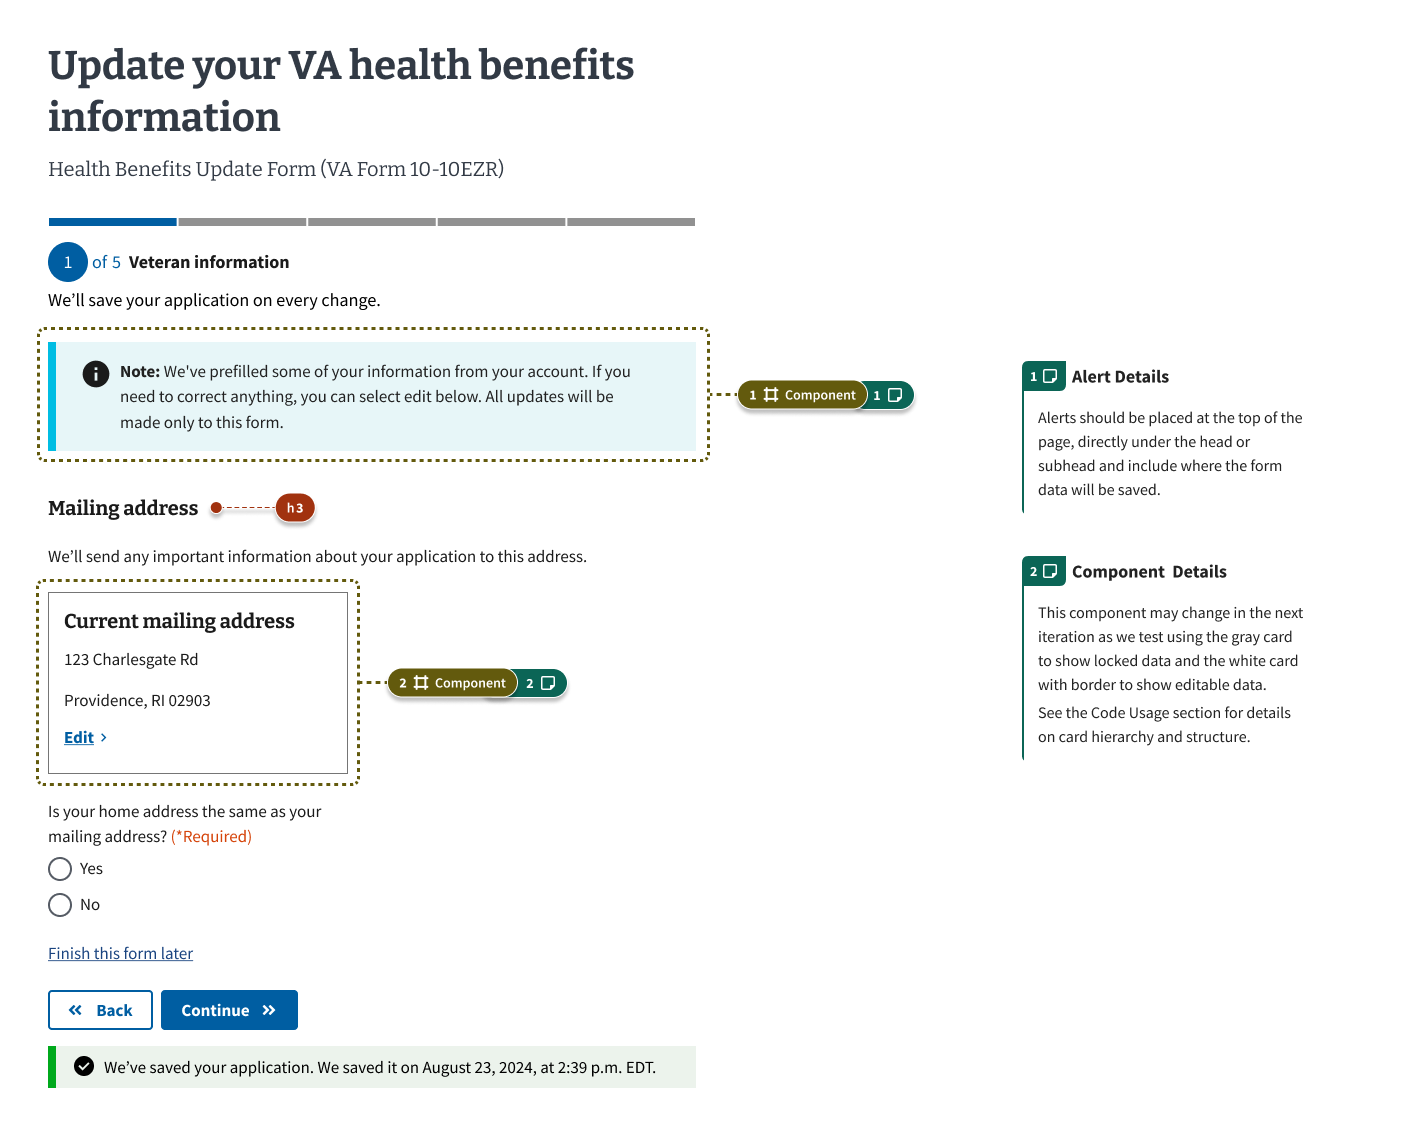
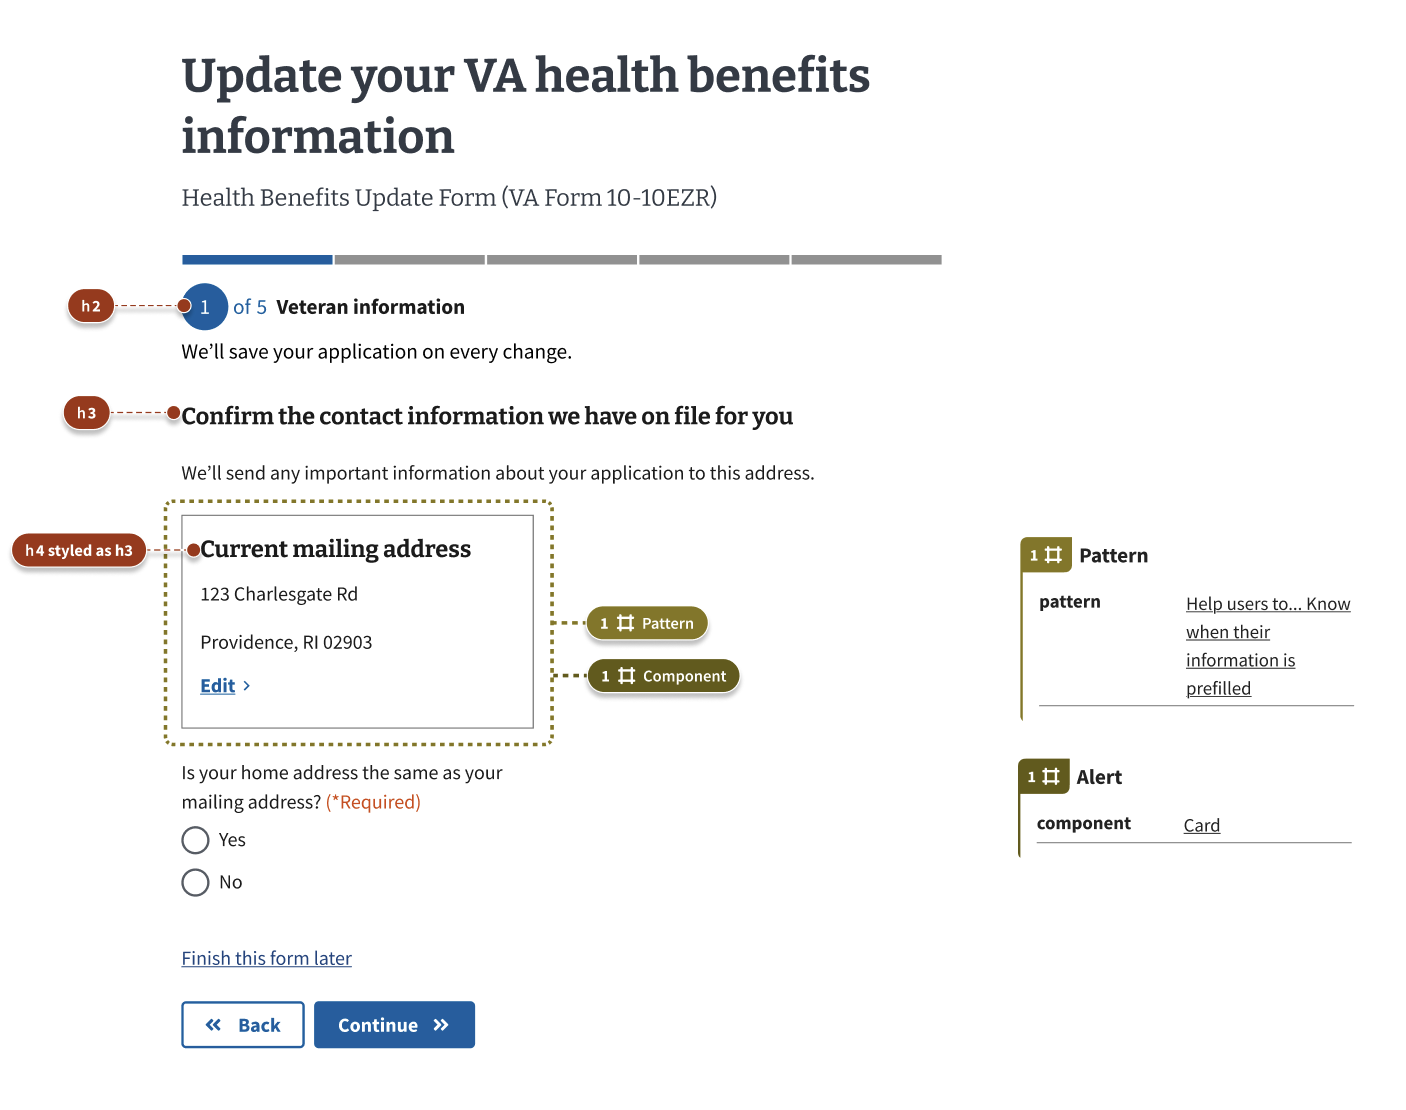
update prefilled pattern screenshots and alt text

Changed region(s): [[0.0, 0.0306, 0.6728, 0.9802], [0.7034, 0.3063, 0.9481, 0.7658]]

diff --git a/src/_patterns/help-users-to/know-when-their-information-is-prefilled.md b/src/_patterns/help-users-to/know-when-their-information-is-prefilled.md
@@ -42,15 +42,15 @@ This pattern involves these types of pages found in VA.gov forms:
 #### Introduction page
 There are two states of an introduction page: Authenticated and Unauthenticated.
 
-{% include component-example.html alt="A form introduction page viewed by an authenticated user with an alert that the form will fill parts of their application based on the their account details. Annotations state that alerts should be placed at the top of the page and the word 'note' in the alert should be bolded." file="/images/patterns/help-users-to/know-when-their-information-is-prefilled/intro-page-authenticated-alert.png" caption="Authenticated introduction page alert on the introduction page."  %}
+{% include component-example.html alt="A form introduction page viewed by an authenticated user with an alert that the form will fill parts of their application based on the their account details. Annotations state that alert header is an H2, and that alerts should be placed at the top of the page and the word 'note' in the alert should be bolded." file="/images/patterns/help-users-to/know-when-their-information-is-prefilled/intro-page-authenticated-alert.png" caption="Authenticated introduction page alert on the introduction page."  %}
 
 {% include component-example.html alt="An alert encouraging users to sign in to save time and save work in progress. A note at the bottom shares that applicants can sign in after they start their application, but will lose any information already filled in." file="/images/patterns/help-users-to/know-when-their-information-is-prefilled/intro-page-unauthenticated-alert.png" caption="Unauthenticated introduction page alert on the introduction page."  class="x2" %}
 
 #### Personal information page
-{% include component-example.html alt="A Veteran information page in a form flow with an uneditable card containing the Veteran's name, privacy masked Social Security number, date of birth, and gender. Below the card is a note explaining why the content can't be edited in the form and how to update this information. An annotation states that the gray card might be replaced in future iterations of the pattern." file="/images/patterns/help-users-to/know-when-their-information-is-prefilled/uneditable-prefill-information.png" caption="Uneditable prefilled information on the personal information page."  %}
+{% include component-example.html alt="A Veteran information page in a form flow with a white card containing  Veteran's uneditable information, including name, privacy masked Social Security number, date of birth, and gender. Below the card is a note explaining why the content can't be edited in the form and how to update this information." file="/images/patterns/help-users-to/know-when-their-information-is-prefilled/uneditable-prefill-information.png" caption="Uneditable prefilled information on the personal information page."  %}
 
 #### Prefill check page
-{% include component-example.html alt="A Veteran information page in a form flow with an alert followed by a white editable card containing the Veteran's mailing address. The alert states that the form has prefilled some of the Veteran's information. Annotations state that alerts should be placed at the top of the page, and that the white card might be replaced in future iterations of the pattern." file="/images/patterns/help-users-to/know-when-their-information-is-prefilled/editable-prefill-information.png" caption="Editable prefilled information displayed on the Prefill check page. This is the proposed style to display data that is editable." %}
+{% include component-example.html alt="A Veteran information page in a form flow with an alert followed by a card containing the Veteran's editable mailing address. The alert states that the form has prefilled some of the Veteran's information." file="/images/patterns/help-users-to/know-when-their-information-is-prefilled/editable-prefill-information.png" caption="Editable prefilled information displayed on the Prefill check page. This is the proposed style to display data that is editable." %}
 
 ### How this pattern works
 
@@ -191,12 +191,8 @@ Directions for updating information that can't be updated online vary. So direct
 #### Authenticated intro page alert
 > [content] **Note:** Since you’re signed in to your account, we can prefill part of your form based on your account details. You can also save your form in progress and come back later to finish filling it out.
 
-<img src="/images/patterns/help-users-to/know-when-their-information-is-prefilled/content-authenticated-alert-for-intro.png" width="600" alt="Authenticated alert for introduction page">
+<img src="/images/patterns/help-users-to/know-when-their-information-is-prefilled/authenticated-prefill-alert.png" width="600" alt="An informational alert with the header 'We can prefill some of your  information.' It informs users that if they sign in, we can prefill some information for them, and they can leave and return to the form later to finish filling it out.">
 
-#### Authenticated contextual alert
-> [content] **Note:** We've prefilled some of your information from your account. If you need to correct anything, you can select edit below. All updates will be made only to this form.
-
-<img src="/images/patterns/help-users-to/know-when-their-information-is-prefilled/content-authenticated-alert-for-page.png" width="600" alt="Authenticated alert for a form application page">
 
 ## Research findings
 The Authenticated Experience Design Patterns team conducted [user research](https://github.com/department-of-veterans-affairs/va.gov-team/tree/master/products/authenticated-patterns/Design%20and%20Research/2024-07-Research%20Initiative-One-Prefill) to gather validation about this pattern.
